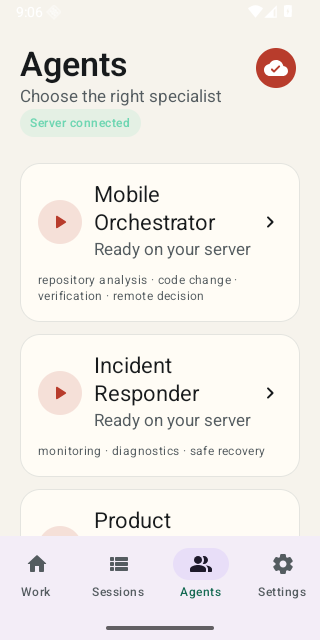
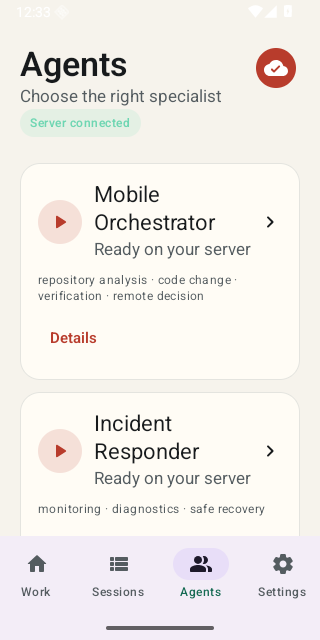
docs(mobile): capture bounded Agent controls

Changed region(s): [[0.125, 0.5, 0.8438, 0.8438], [0.8125, 0.5938, 0.875, 0.625]]

diff --git a/spec/STATUS.md b/spec/STATUS.md
@@ -72,7 +72,7 @@ planned without reopening a narrower completed row.
 | A-DESKTOP-WA | Governed Workspaces and artifacts | accepted | accepted | documented | partial | partial | active | Complete remaining accessibility/package matrices. Session detach has an idempotent durable receipt and restart-safe projection; global revoke journals a manifest-v2 tombstone and retries Keychain cleanup after restart. Artifact export now journals only bounded opaque pending IDs, removes the exact interrupted temporary when its directory is next explicitly authorized, preserves unrelated files, and never persists or exposes a path. Immutable receipt-bound Artifact projection, digest-verified preview and one-shot no-overwrite export are implemented, and the real SQLite approval-to-file-to-Artifact flow passes. |
 | A-DESKTOP-VE | Desktop visual, journey and manual evidence | accepted | accepted | documented | partial | missing | active | The deterministic evidence verifier, Chinese manual source, eight-page tagged draft and 18-entry outline are implemented. Unlock a supported Mac, execute the stable 62-row M01–M85 full-function capture matrix on the exact candidate, close visual defects, emit a digest-bound safe screenshot manifest, replace every pending marker, and independently verify PDF/UA plus VoiceOver reading order. Deterministic fixtures prove presentation only, never product behavior. |
 | A-MOBILE | KMP/Android/iOS shells | accepted | accepted | documented | implemented | verified | done | Keep KMP real-loopback transport, XCFramework, Swift, Android SDK 36 APK and API 36 Compose instrumentation gates green; remote physical-device connectivity is not claimed. |
-| A-MOBILE-R | Native remote-work mobile product | accepted | accepted | documented | implemented | partial | active | KMP controller, secure pairing, native Compose/SwiftUI product, installable builds, Gateway/private APNs/FCM wake paths, complete 29-screenshot user guide, real native loopback actions, offline/reconnect, semantic icon navigation, local Session search/status filters, explicit rendered-conversation sharing, dark/200%-equivalent type, Android landscape and iPad layout evidence are verified locally. Agent-card task creation preserves the exact selected definition and cancellation is exposed only for active work. Native 26-character lowercase sortable command identities now match the accepted mutation contract. Ambiguous mutations persist strict digest-bound identity/input records across process restart, including two-stage create/start recovery, exact retry and warned local abandonment; the recovery controls remain actionable after reads reconnect. Authentication failure returns both native shells to pairing. Settings includes persistent theme, system notification controls, verified host, safe build/device diagnostics and bounded safe-diagnostics clipboard export. Unpair requires an explicit scope-preserving confirmation. Android Keystore and Apple Keychain tests prove grants are absent from preferences, clear makes them unrecoverable and unpair rotates device identity. Close only with physical iOS/Android Gateway-to-Runtime create/reconnect/background/wake/decision/cancel/revoke evidence. |
+| A-MOBILE-R | Native remote-work mobile product | accepted | accepted | documented | implemented | partial | active | KMP controller, secure pairing, native Compose/SwiftUI product, installable builds, Gateway/private APNs/FCM wake paths, complete 29-screenshot user guide, real native loopback actions, offline/reconnect, semantic icon navigation, local Session search/status filters, explicit rendered-conversation sharing, dark/200%-equivalent type, Android landscape and iPad layout evidence are verified locally. Agent cards expose copyable exact definition details, task creation preserves the selected definition, remote submission is gated by connectivity and the 16 KiB input boundary, and cancellation is exposed only for active work. Native 26-character lowercase sortable command identities now match the accepted mutation contract. Ambiguous mutations persist strict digest-bound identity/input records across process restart, including two-stage create/start recovery, exact retry and warned local abandonment; the recovery controls remain actionable after reads reconnect. Authentication failure returns both native shells to pairing. Settings includes persistent theme, system notification controls, verified host, safe build/device diagnostics and bounded safe-diagnostics clipboard export. Unpair requires an explicit scope-preserving confirmation. Android Keystore and Apple Keychain tests prove grants are absent from preferences, clear makes them unrecoverable and unpair rotates device identity. Close only with physical iOS/Android Gateway-to-Runtime create/reconnect/background/wake/decision/cancel/revoke evidence. |
 | A-UX1-A | Shared product controller | accepted | accepted | documented | implemented | verified | done | Keep exact TypeScript/KMP fixture parity, strict fixture readers, Host projection, correlation, mutation, reconnect, activity, preference and native XCFramework gates green. |
 | A-UX1 | Product client experience | accepted | accepted | partial | partial | partial | active | UX-A and Desktop UX-B are complete: the work surface now runs through the shared controller with exact create/start/cancel/text-or-boolean continuation commands, atomic bounded preference/pending recovery, restart-safe multi-turn evidence, keyboard/focus/contrast/reduced-motion checks, 200% zoom and 320px reflow. Close UX-C shared Web/native UI plus remaining localization and physical-device accessibility matrices. |
 | G0 | Go Gateway | accepted | accepted | documented | implemented | verified | done | Keep TLS-only edge composition, one-time device pairing, route/header admission, SSE passthrough, expiry/revocation and race tests green; durable multi-instance grants are a later slice. |

diff --git a/docs/manual/mobile-user-guide.md b/docs/manual/mobile-user-guide.md
@@ -198,6 +198,10 @@ Sessions 提供本地搜索，以及 **All**、**Working**、**Needs you** 和 *
 
 ![iOS Agents](assets/mobile/ios-04-agents.png)
 
+每张卡片的 **Details** 可展开查看并复制精确的 definition ID 和 revision，便于与管理员核对；
+日常列表只突出公开名称与能力。离线、授权失效、目标为空或输入超过 16 KiB 时，客户端会保留
+编辑内容但禁用远程提交，避免产生明知无法受理的命令。
+
 Agents 展示服务端已安装的 Agent、用途和可用状态。移动端只能选择服务端已经允许的定义，
 不能在本地伪造 Agent ID、模型或工具权限。
 
